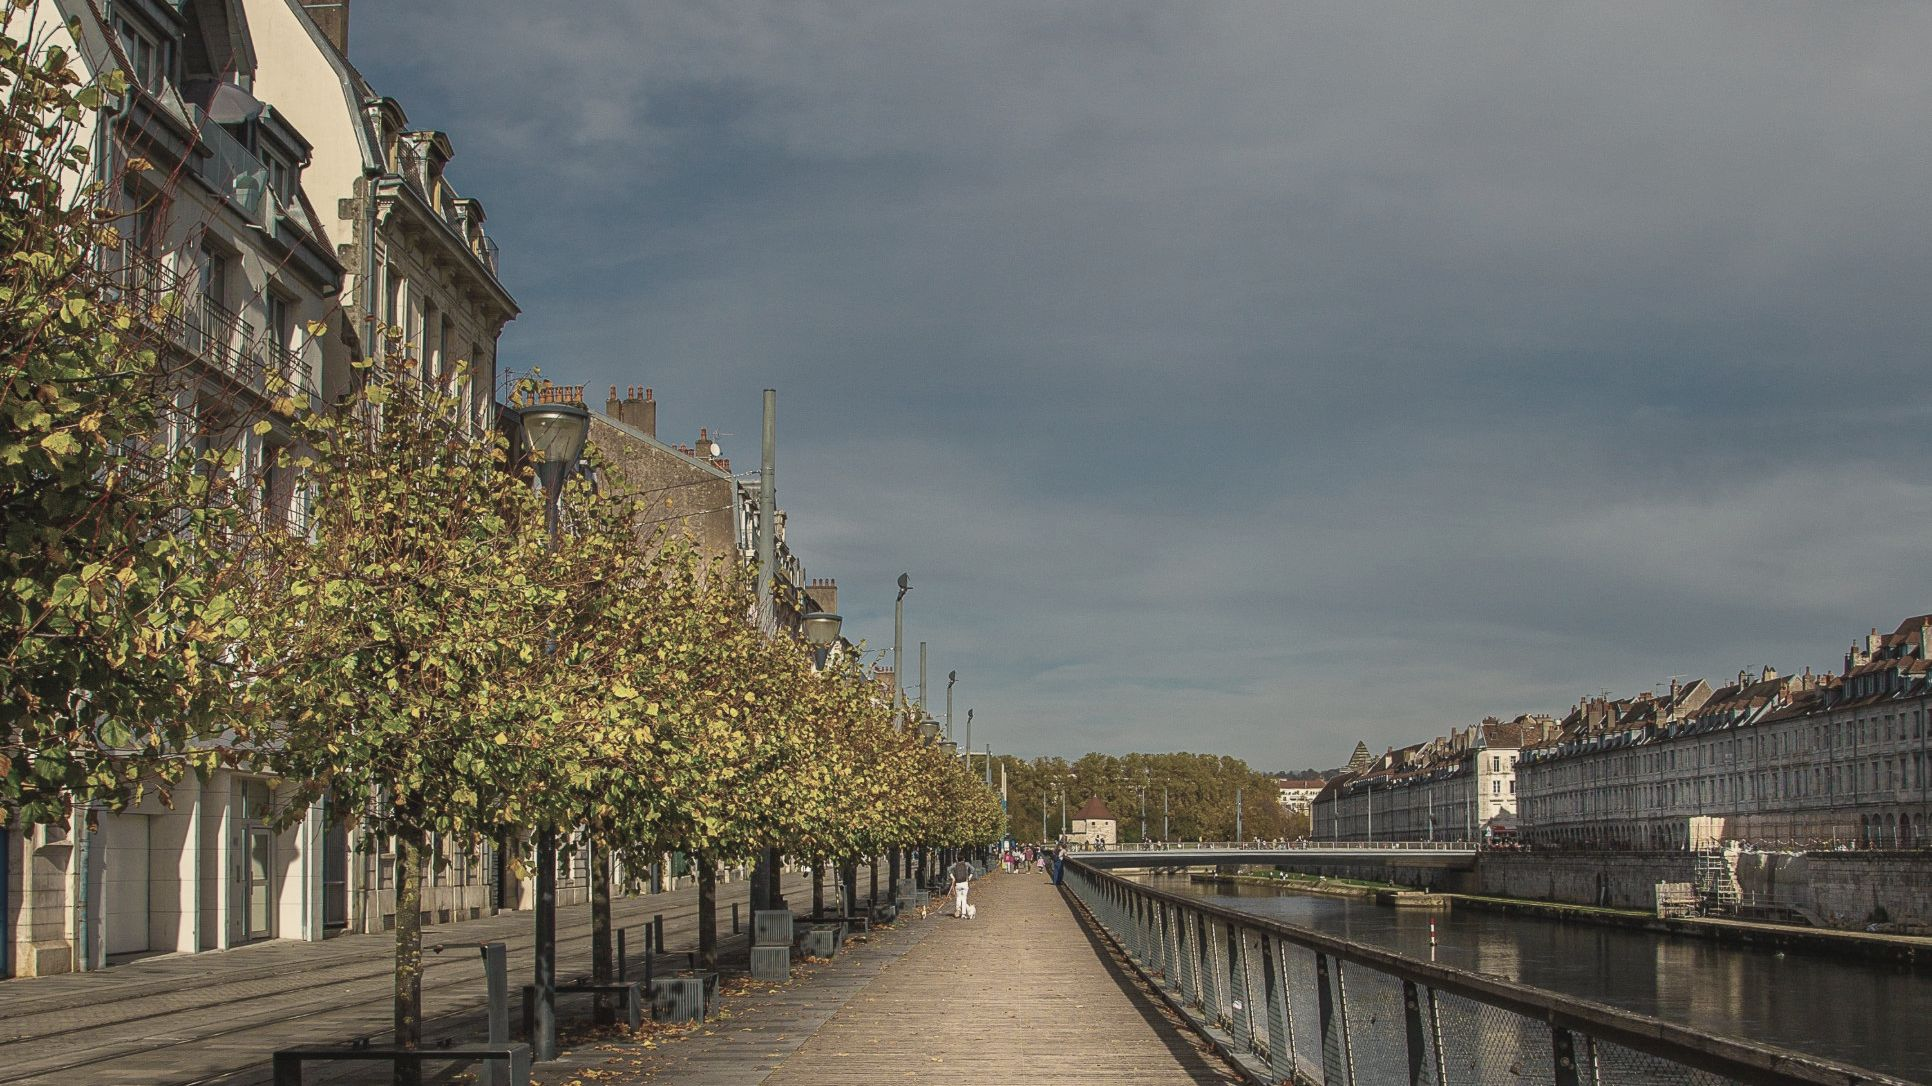
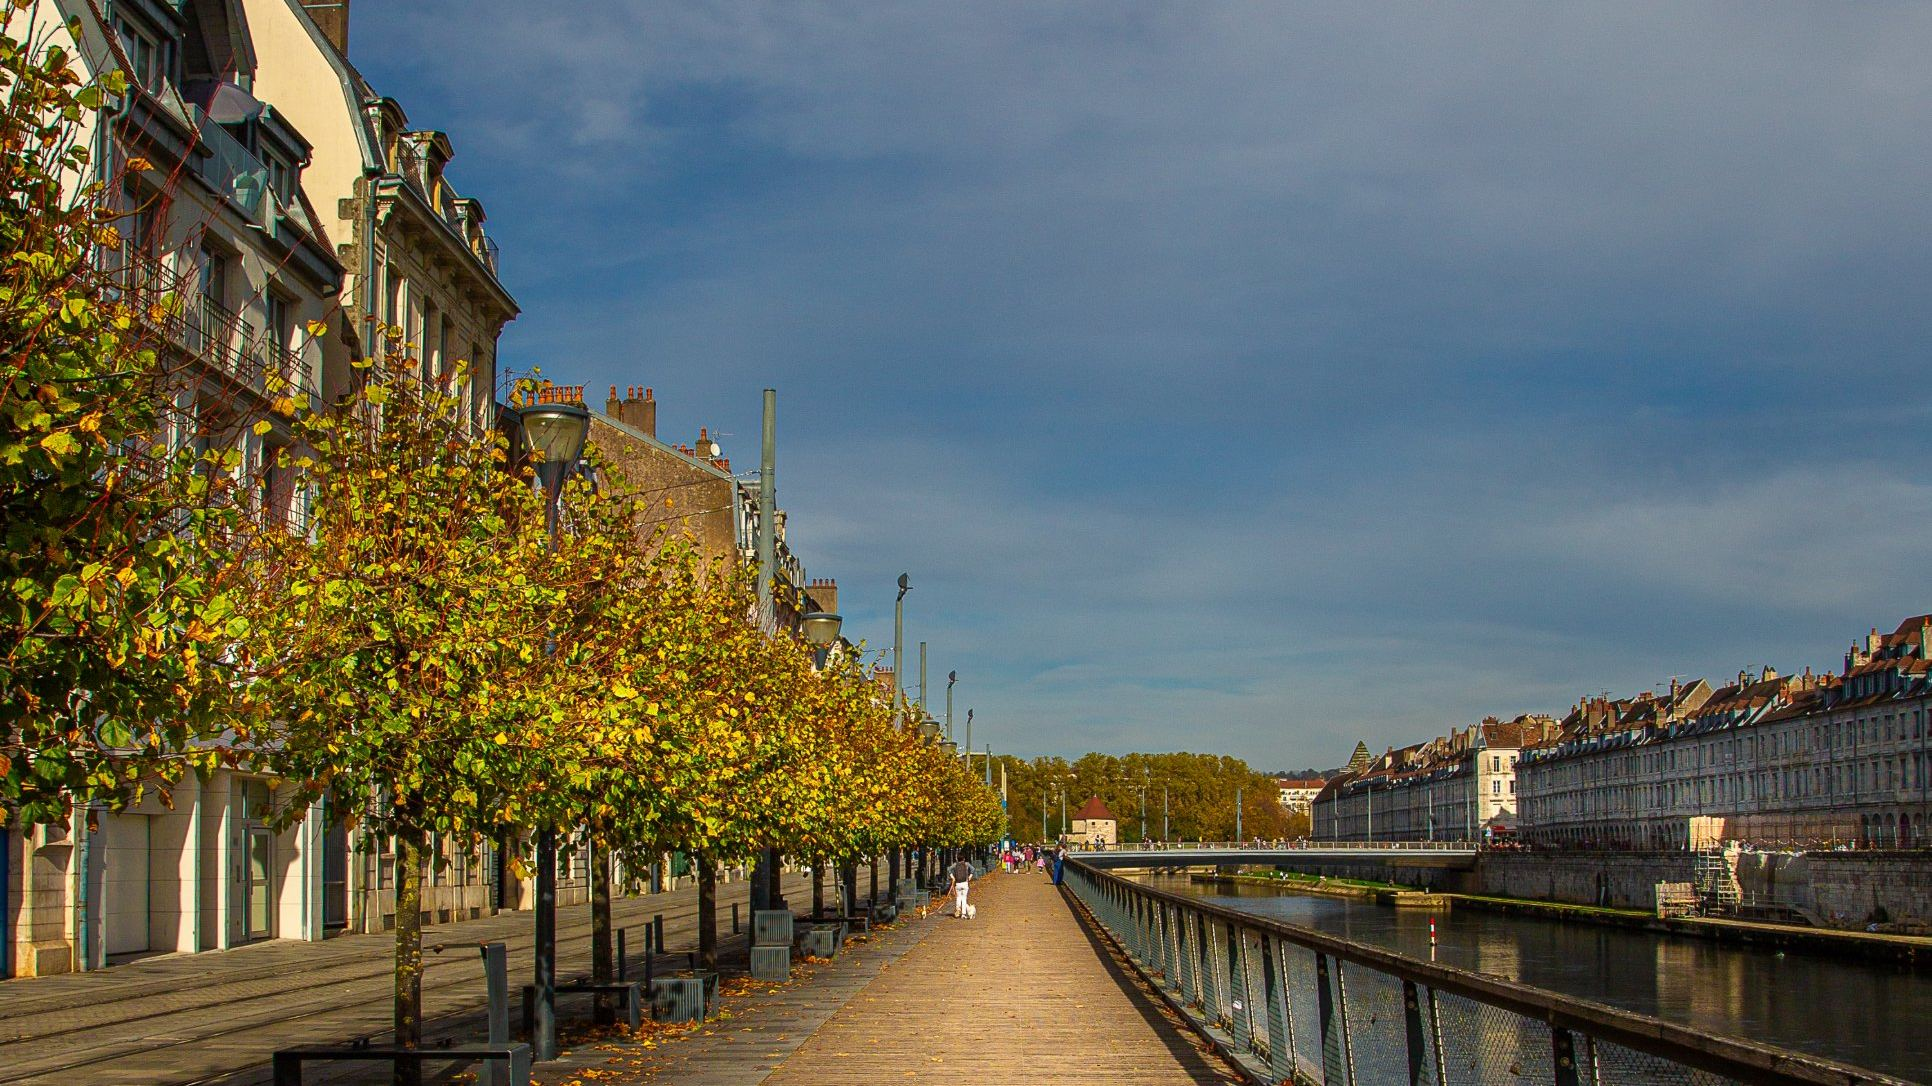
Photos de Jean-Claude Jacottot en couleurs d'origine

diff --git a/src/assets/styles/_refonte.scss b/src/assets/styles/_refonte.scss
@@ -129,23 +129,17 @@ a:hover .photo-bien,
 
 .photo-illustration.en-vue,
 a:hover .photo-illustration {
-  filter: saturate(1.9);
+  filter: saturate(1.15);
 }
 
-// Photos des articles : couleurs atténuées au repos, couleurs d'origine au survol
+// Photos des articles : en couleur, légèrement ravivées au survol
 .photo-article {
-  filter: saturate(0.5) contrast(0.95);
+  filter: none;
   transition: filter $transition-photo, transform 1.2s ease;
 }
 
 a:hover .photo-article {
-  filter: none;
-}
-
-@media (hover: none) {
-  .photo-article {
-    filter: saturate(0.7);
-  }
+  filter: saturate(1.15);
 }
 
 // Curseur clignotant de la machine à écrire

diff --git a/src/pages/Accueil/Accueil.module.scss b/src/pages/Accueil/Accueil.module.scss
@@ -40,9 +40,9 @@
     inset: 0;
     background: radial-gradient(
       ellipse at center,
-      rgba(0, 0, 0, 0.62) 0%,
-      rgba(0, 0, 0, 0.42) 45%,
-      rgba(0, 0, 0, 0.25) 100%
+      rgba(0, 0, 0, 0.5) 0%,
+      rgba(0, 0, 0, 0.28) 45%,
+      rgba(0, 0, 0, 0.1) 100%
     );
   }
 }
@@ -242,7 +242,7 @@ $respiration-mobile: 64px;
 }
 
 .service:hover .servicePhoto img {
-  filter: saturate(1.9);
+  filter: saturate(1.15);
   transform: scale(1.03);
 }
 

diff --git a/src/components/Refonte/BandeauPage.module.scss b/src/components/Refonte/BandeauPage.module.scss
@@ -10,7 +10,7 @@
     content: '';
     position: absolute;
     inset: 0;
-    background: radial-gradient(ellipse at center, rgba(0, 0, 0, 0.6) 0%, rgba(0, 0, 0, 0.4) 55%, rgba(0, 0, 0, 0.3) 100%);
+    background: radial-gradient(ellipse at center, rgba(0, 0, 0, 0.5) 0%, rgba(0, 0, 0, 0.3) 55%, rgba(0, 0, 0, 0.15) 100%);
   }
 }
 
